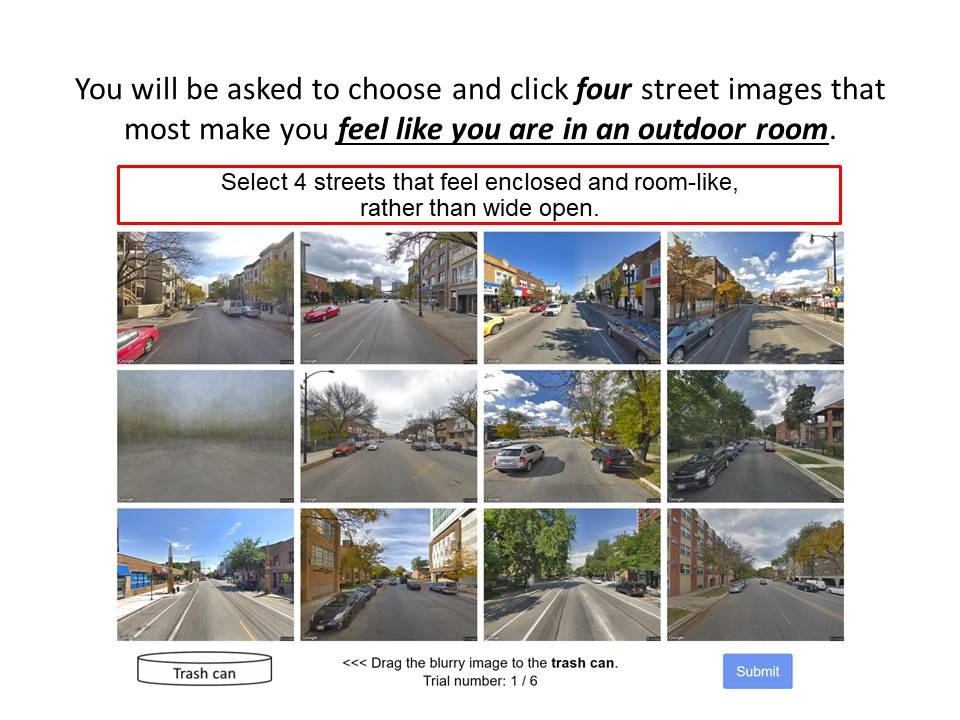
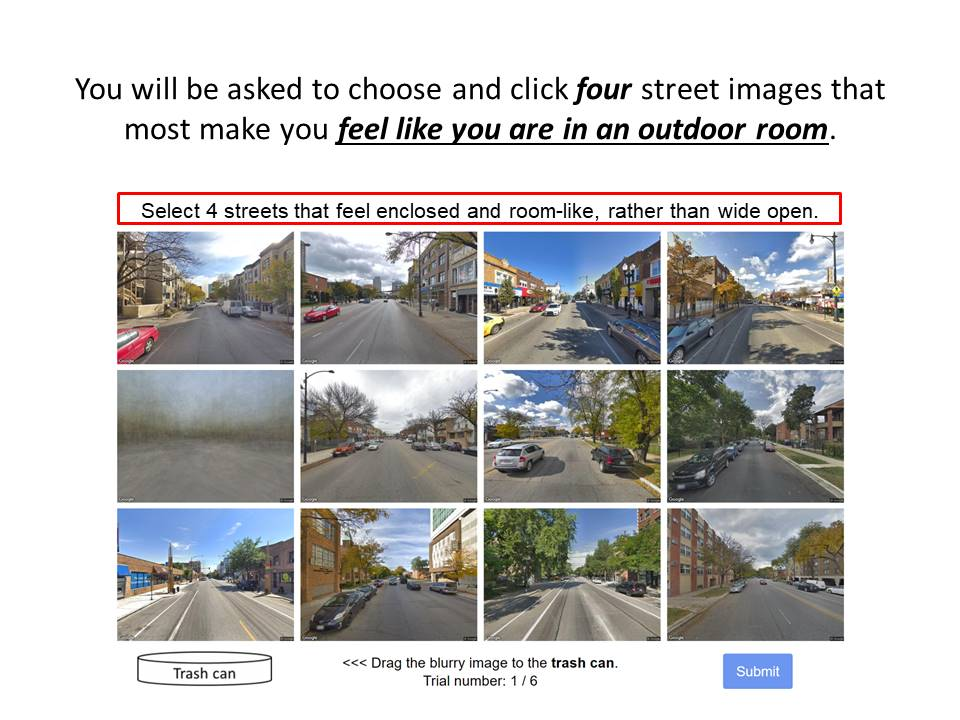
updated instructions and demo scripts

Changed region(s): [[0.0938, 0.2139, 0.875, 0.3056]]

diff --git a/docs/rating_enclosure.html b/docs/rating_enclosure.html
@@ -33,8 +33,7 @@
   var instr_url = 'https://raw.githubusercontent.com/kywch/StreetPsych/master/instructions/enclosure/';
 
   // required clicks should be four
-  var task_prompt = 'Select ' + required_clicks.toString() + ' streets that feel enclosed and room-like,<br>' +
-    'rather than wide open.';
+  var task_prompt = 'Select ' + required_clicks.toString() + ' streets that feel enclosed and room-like, rather than wide open.';
 
   var jspsych_session = [];
 
